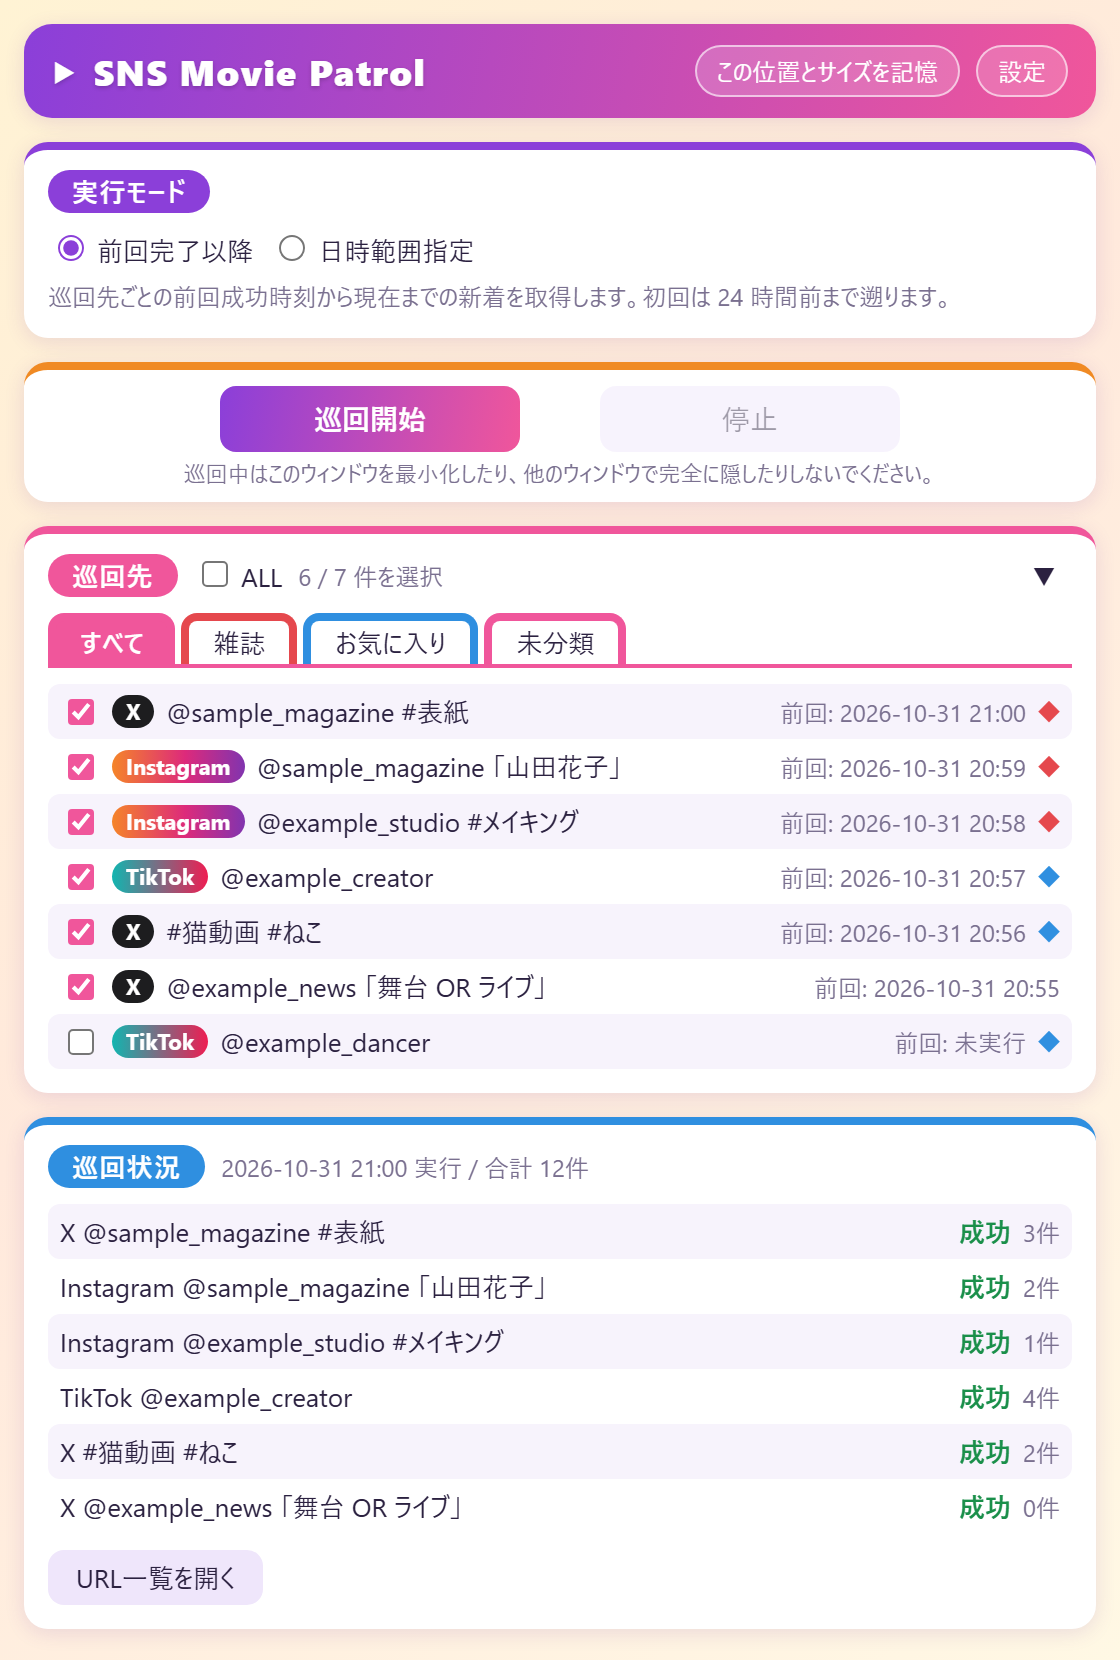
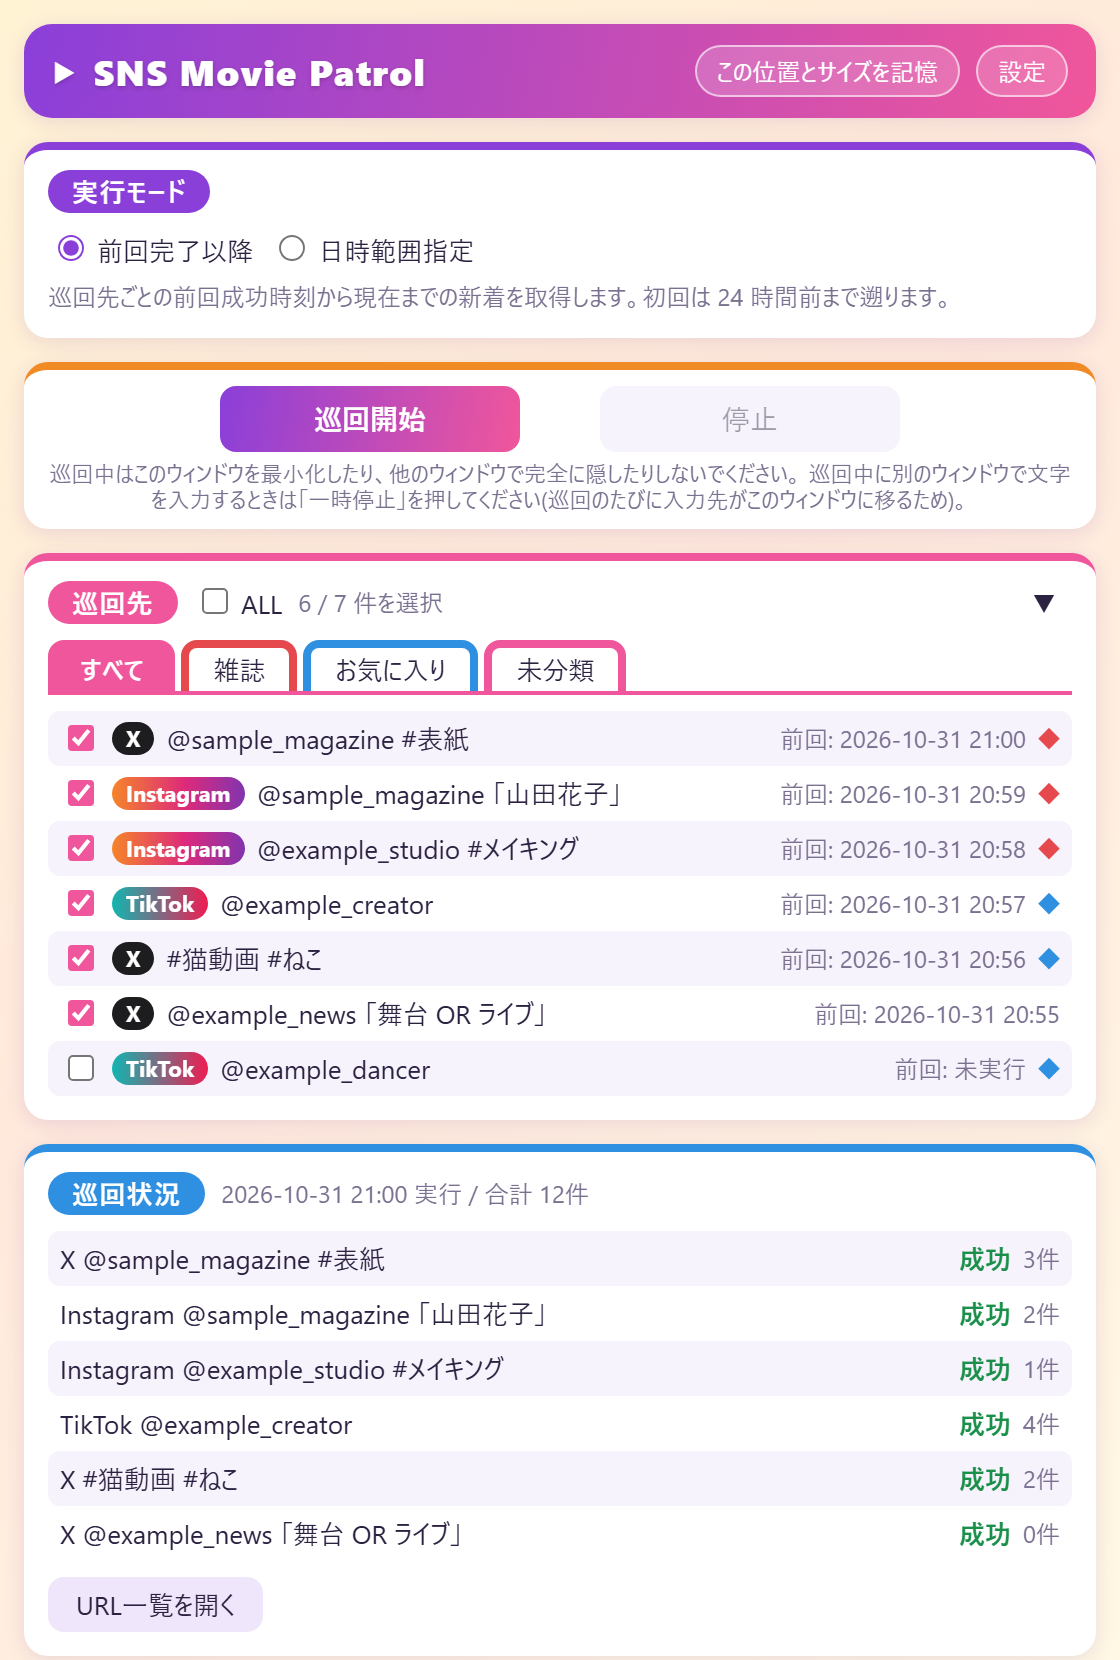
一時停止、利用者が入力した名前をブラウザの翻訳で訳させない (v0.2.7 テスト中)
- 巡回中は「巡回開始」のボタンが「一時停止」「再開」になる。いまの巡回先が終わったら、再開まで次に進まない
- グループ名・アカウント名・ハッシュタグ・検索ワードの表示に translate="no" を付けた
- 操作画面と README に、一時停止の説明を追加

Changed region(s): [[0.0, 0.2765, 1.0, 1.0], [0.8438, 0.7373, 0.9375, 0.9524], [0.375, 0.891, 0.4062, 0.9217]]

diff --git a/src/panel/panel.js b/src/panel/panel.js
@@ -22,6 +22,8 @@ const OPTIONS_URL = browser.runtime.getURL('options/options.html');
 
 let running = false;
 let stopRequested = false;
+let pauseRequested = false; // 一時停止中(次の巡回先に進まない)
+let currentProgress = ''; // 巡回中の巡回先の表示(一時停止を取り消したときに戻す)
 // 直近の実行結果。urls は全体(巡回先をまたぐ重複なし)、rows = [{ name, status, urls, message }] は巡回先ごと。
 // storage の lastRun に保存し、URL一覧は結果タブ(results)が表示する。
 let run = { at: null, urls: [], rows: [] };
@@ -109,7 +111,7 @@ async function renderTargets() {
         { className: 'target' },
         checkbox,
         el('span', { className: `site site-${target.site}`, textContent: adapter.label }),
-        el('span', { className: 'name', textContent: describeTarget(target) }),
+        el('span', { className: 'name', textContent: describeTarget(target), translate: false }),
         el('span', { className: 'muted', textContent: `前回: ${formatJst(state.lastSuccessAt)}` }),
         groupMark(groups, colors, target.group)
       )
@@ -174,7 +176,7 @@ function renderRun() {
       const line = el(
         'div',
         { className: 'target' },
-        el('span', { className: 'name', textContent: row.name, title: row.name }),
+        el('span', { className: 'name', textContent: row.name, title: row.name, translate: false }),
         el('span', { className: `status-${row.status}`, textContent: STATUS_LABEL[row.status] }),
         el('span', { className: 'muted', textContent: row.status === 'running' ? '' : `${row.urls.length}件` })
       );
@@ -188,8 +190,11 @@ function renderRun() {
 
 function setRunning(value) {
   running = value;
-  $('start').disabled = value;
+  // 巡回中は「巡回開始」のボタンが「一時停止」「再開」のボタンになる
+  $('start').disabled = false;
+  $('start').textContent = value ? '一時停止' : '巡回開始';
   $('stop').disabled = !value;
+  if (!value) pauseRequested = false;
   for (const cb of $('targets').querySelectorAll('input')) cb.disabled = value;
   $('checkAll').disabled = value;
   for (const tab of $('groupTabs').querySelectorAll('button')) tab.disabled = value;
@@ -232,6 +237,7 @@ async function start() {
   const seen = new Set();
   run = { at: Date.now(), urls: [], rows: [] };
   stopRequested = false;
+  pauseRequested = false;
   setRunning(true);
   renderRun();
 
@@ -242,11 +248,13 @@ async function start() {
       windowId: win.id,
       settings,
       shouldStop: () => stopRequested,
+      shouldPause: () => pauseRequested,
       onStart(index, target) {
         clearInterval(waitTimer);
         const name = targetName(target);
         run.rows.push({ name, status: 'running', urls: [], message: '' });
-        $('progress').textContent = `${index + 1} / ${targets.length} : ${name}`;
+        currentProgress = `${index + 1} / ${targets.length} : ${name}`;
+        $('progress').textContent = currentProgress;
         renderRun();
       },
       onResult(index, target, result) {
@@ -275,7 +283,9 @@ async function start() {
         let left = seconds;
         const show = () => {
           if (stopRequested) return; // 停止の案内を上書きしない
-          $('progress').textContent = `${index + 1} / ${targets.length} 完了 ・ 次は ${next}(あと ${left} 秒)`;
+          $('progress').textContent = pauseRequested
+            ? `${index + 1} / ${targets.length} 完了 ・ 一時停止中(「再開」で ${next} から続けます)`
+            : `${index + 1} / ${targets.length} 完了 ・ 次は ${next}(あと ${left} 秒)`;
         };
         show();
         clearInterval(waitTimer);
@@ -302,6 +312,7 @@ async function start() {
 }
 
 $('start').addEventListener('click', async () => {
+  if (running) return togglePause();
   // Firefox系はサイトへのアクセス権限が最初は付いていないので、ここで許可を求める(許可済みなら何も出ない)。
   // Firefox はクリック直後でないと許可ダイアログを出せないため、他の処理より先に呼ぶ。
   const origins = browser.runtime.getManifest().host_permissions;
@@ -318,9 +329,22 @@ $('start').addEventListener('click', async () => {
   start();
 });
 
+// 一時停止: いまの巡回先が終わったら、「再開」を押すまで次に進まない
+function togglePause() {
+  pauseRequested = !pauseRequested;
+  $('start').textContent = pauseRequested ? '再開' : '一時停止';
+  const progress = $('progress');
+  if (pauseRequested && progress.textContent === currentProgress) {
+    progress.textContent = '一時停止します…(いまの巡回先が終わったら止まります)';
+  } else if (!pauseRequested && progress.textContent.startsWith('一時停止します')) {
+    progress.textContent = currentProgress;
+  }
+}
+
 $('stop').addEventListener('click', () => {
   stopRequested = true;
   $('stop').disabled = true;
+  $('start').disabled = true; // 止まるまでは一時停止もできない
   $('progress').textContent = '停止しています…(ここまでに取れた分は結果に残ります)';
 });
 

diff --git a/src/lib/patrol.js b/src/lib/patrol.js
@@ -240,9 +240,12 @@ async function patrolTarget(target, mode, nowMs, windowId, settings, shouldStop)
 //   onStart(index, target)          : 巡回先の処理開始
 //   onResult(index, target, result) : 巡回先の処理終了
 //   onWait(seconds, index)          : index 番目が終わり、次の巡回先までの待機を始めた
-export async function runPatrol({ targets, mode, windowId, settings, shouldStop, onStart, onResult, onWait }) {
+//   shouldPause()                   : true の間は、次の巡回先に進まずに待つ(いまの巡回先は最後まで行う)。
+//                                     待っている間は新しいタブを開かないので、別のウィンドウでの入力を邪魔しない
+export async function runPatrol({ targets, mode, windowId, settings, shouldStop, onStart, onResult, onWait, shouldPause = () => false }) {
   const nowMs = Date.now();
   for (let i = 0; i < targets.length; i++) {
+    while (shouldPause() && !shouldStop()) await sleep(250);
     if (shouldStop()) break;
     onStart(i, targets[i]);
     const result = await patrolTarget(targets[i], mode, nowMs, windowId, settings, shouldStop);

diff --git a/src/options/options.js b/src/options/options.js
@@ -66,7 +66,7 @@ ${info}`);
       { className: 'target', draggable: true },
       el('span', { className: 'grip', textContent: '⠿', title: 'ドラッグで並べ替え' }),
       el('span', { className: `site site-${target.site}`, textContent: adapter.label }),
-      el('span', { className: 'name', textContent: describeTarget(target), title: `${describeTarget(target)}
+      el('span', { className: 'name', translate: false, textContent: describeTarget(target), title: `${describeTarget(target)}
 ${info}` }),
       groupMark(groups, groupColors, target.group),
       edit,
@@ -207,7 +207,7 @@ async function renderGroups() {
   const current = editingId ? $('group').value : selectedGroup || UNGROUPED;
   $('group').replaceChildren(
     el('option', { value: UNGROUPED, textContent: '(なし)' }),
-    ...groups.map((name) => el('option', { value: name, textContent: name }))
+    ...groups.map((name) => el('option', { value: name, textContent: name, translate: false }))
   );
   $('group').value = groups.includes(current) ? current : UNGROUPED;
 }

diff --git a/src/panel/panel.html b/src/panel/panel.html
@@ -42,7 +42,8 @@
       <button id="stop" disabled>停止</button>
     </div>
     <span id="progress" class="muted"></span>
-    <p class="hint">巡回中はこのウィンドウを最小化したり、他のウィンドウで完全に隠したりしないでください。</p>
+    <p class="hint">巡回中はこのウィンドウを最小化したり、他のウィンドウで完全に隠したりしないでください。
+      巡回中に別のウィンドウで文字を入力するときは「一時停止」を押してください(巡回のたびに入力先がこのウィンドウに移るため)。</p>
   </section>
 
   <section class="card pink">

diff --git a/src/lib/groups.js b/src/lib/groups.js
@@ -123,6 +123,8 @@ export function renderGroupTabs(container, groups, colors, selected, onSelect) {
       // 色を持たないタブは、列の下線用に継承した色を打ち消してカードの色に戻す
       tab.style.setProperty('--tab-color', groupColor(groups, colors, option.value) || 'var(--accent)');
       tab.textContent = option.label;
+      // 利用者が付けたグループ名は、ブラウザの翻訳機能で訳させない(「すべて」「未分類」は訳してよい)
+      if (option.value) tab.translate = false;
       tab.addEventListener('click', (event) => onSelect(option.value, event));
       return tab;
     })

diff --git a/src/lib/ui.js b/src/lib/ui.js
@@ -3,6 +3,8 @@
 export const $ = (id) => document.getElementById(id);
 
 // 要素を作る。props はそのままプロパティに入れ、children は中身として追加する(null や '' は無視)。
+// 利用者が入力したもの(アカウント名・ハッシュタグ・検索ワード・グループ名)を表示する要素には translate: false を付け、
+// ブラウザの翻訳機能で訳されないようにする。
 export function el(tag, props = {}, ...children) {
   const node = Object.assign(document.createElement(tag), props);
   node.append(...children.filter((child) => child != null && child !== ''));

diff --git a/src/results/results.js b/src/results/results.js
@@ -23,7 +23,7 @@ function render() {
       const head = el(
         'div',
         { className: 'result-head' },
-        el('span', { className: 'name', textContent: row.name, title: row.name }),
+        el('span', { className: 'name', textContent: row.name, title: row.name, translate: false }),
         el('span', { className: `status-${row.status}`, textContent: STATUS_LABEL[row.status] }),
         el('span', { className: 'muted', textContent: `${urls.length}件` })
       );
